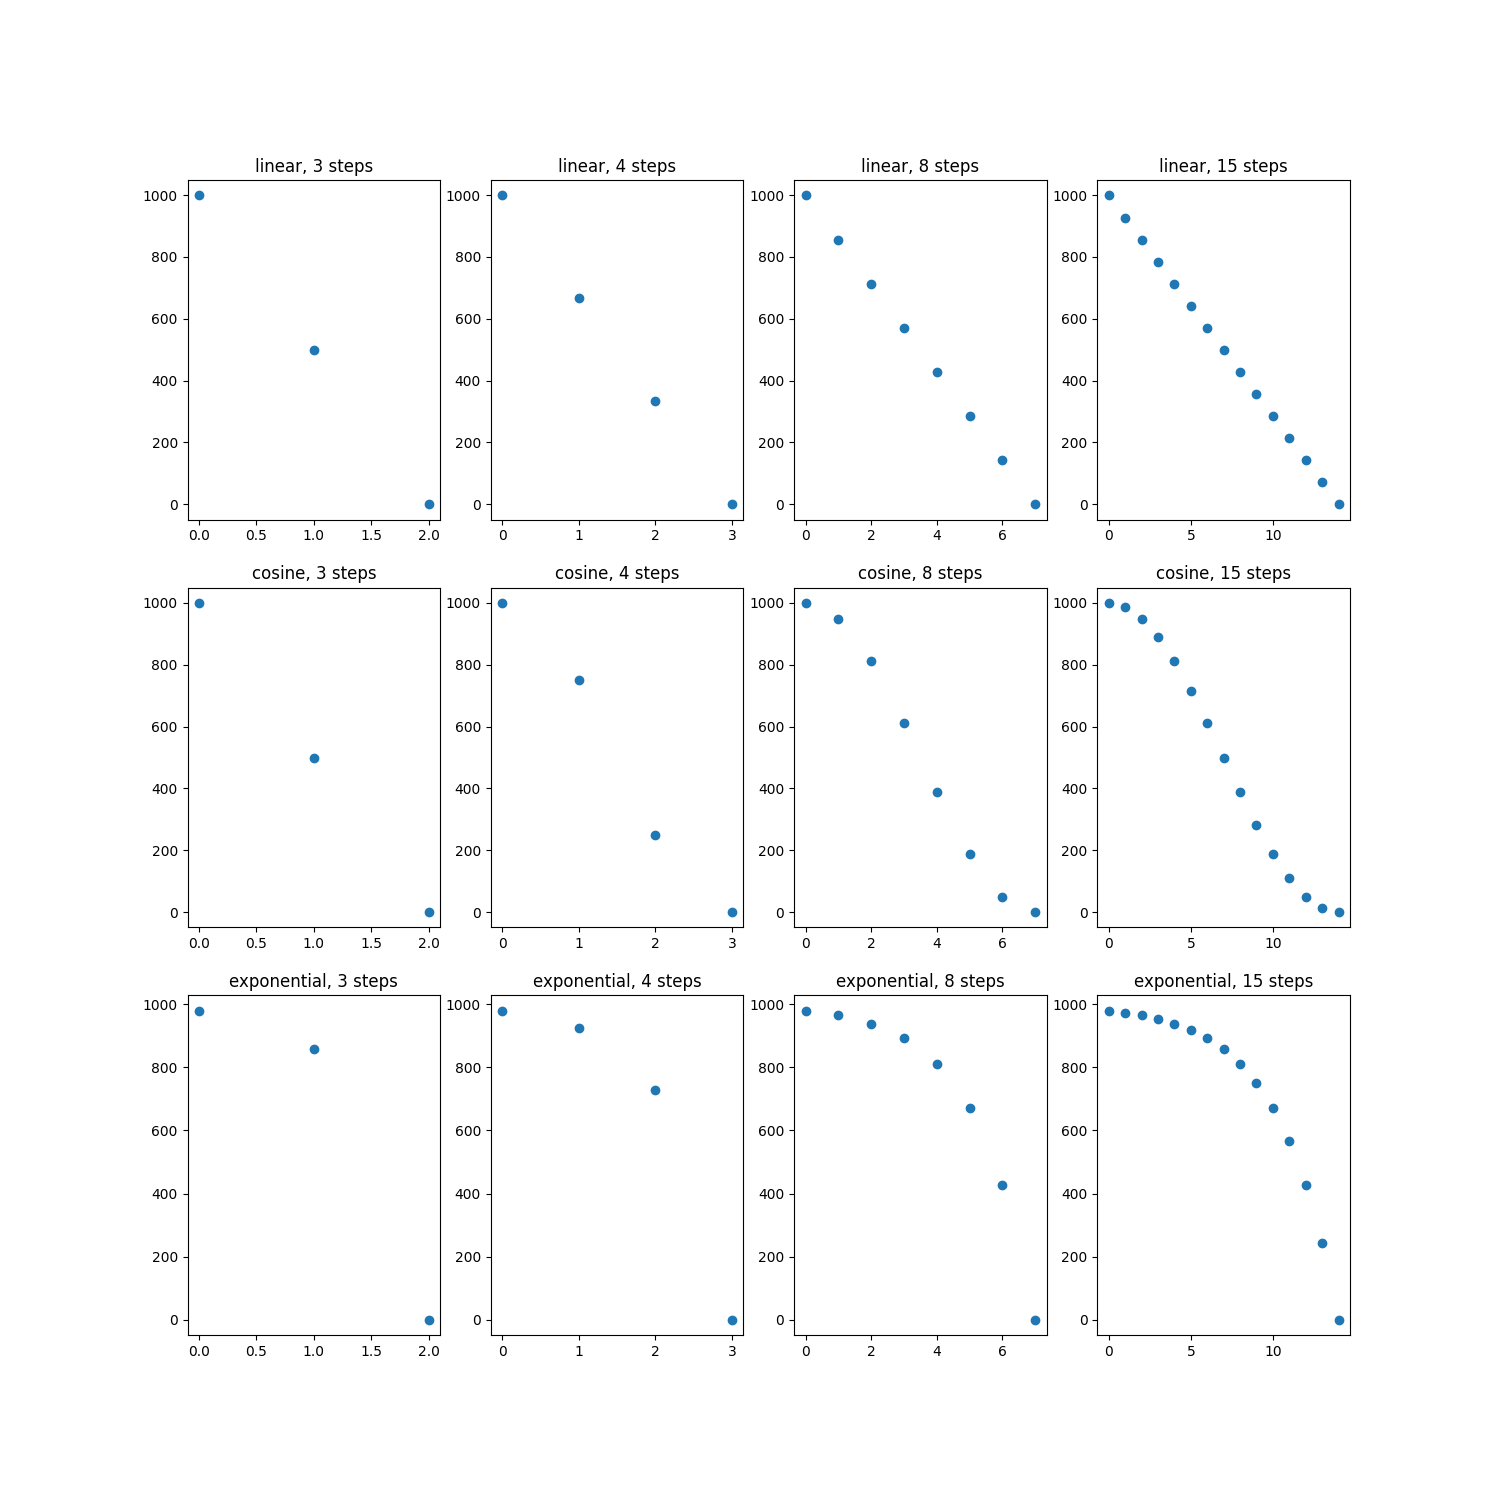
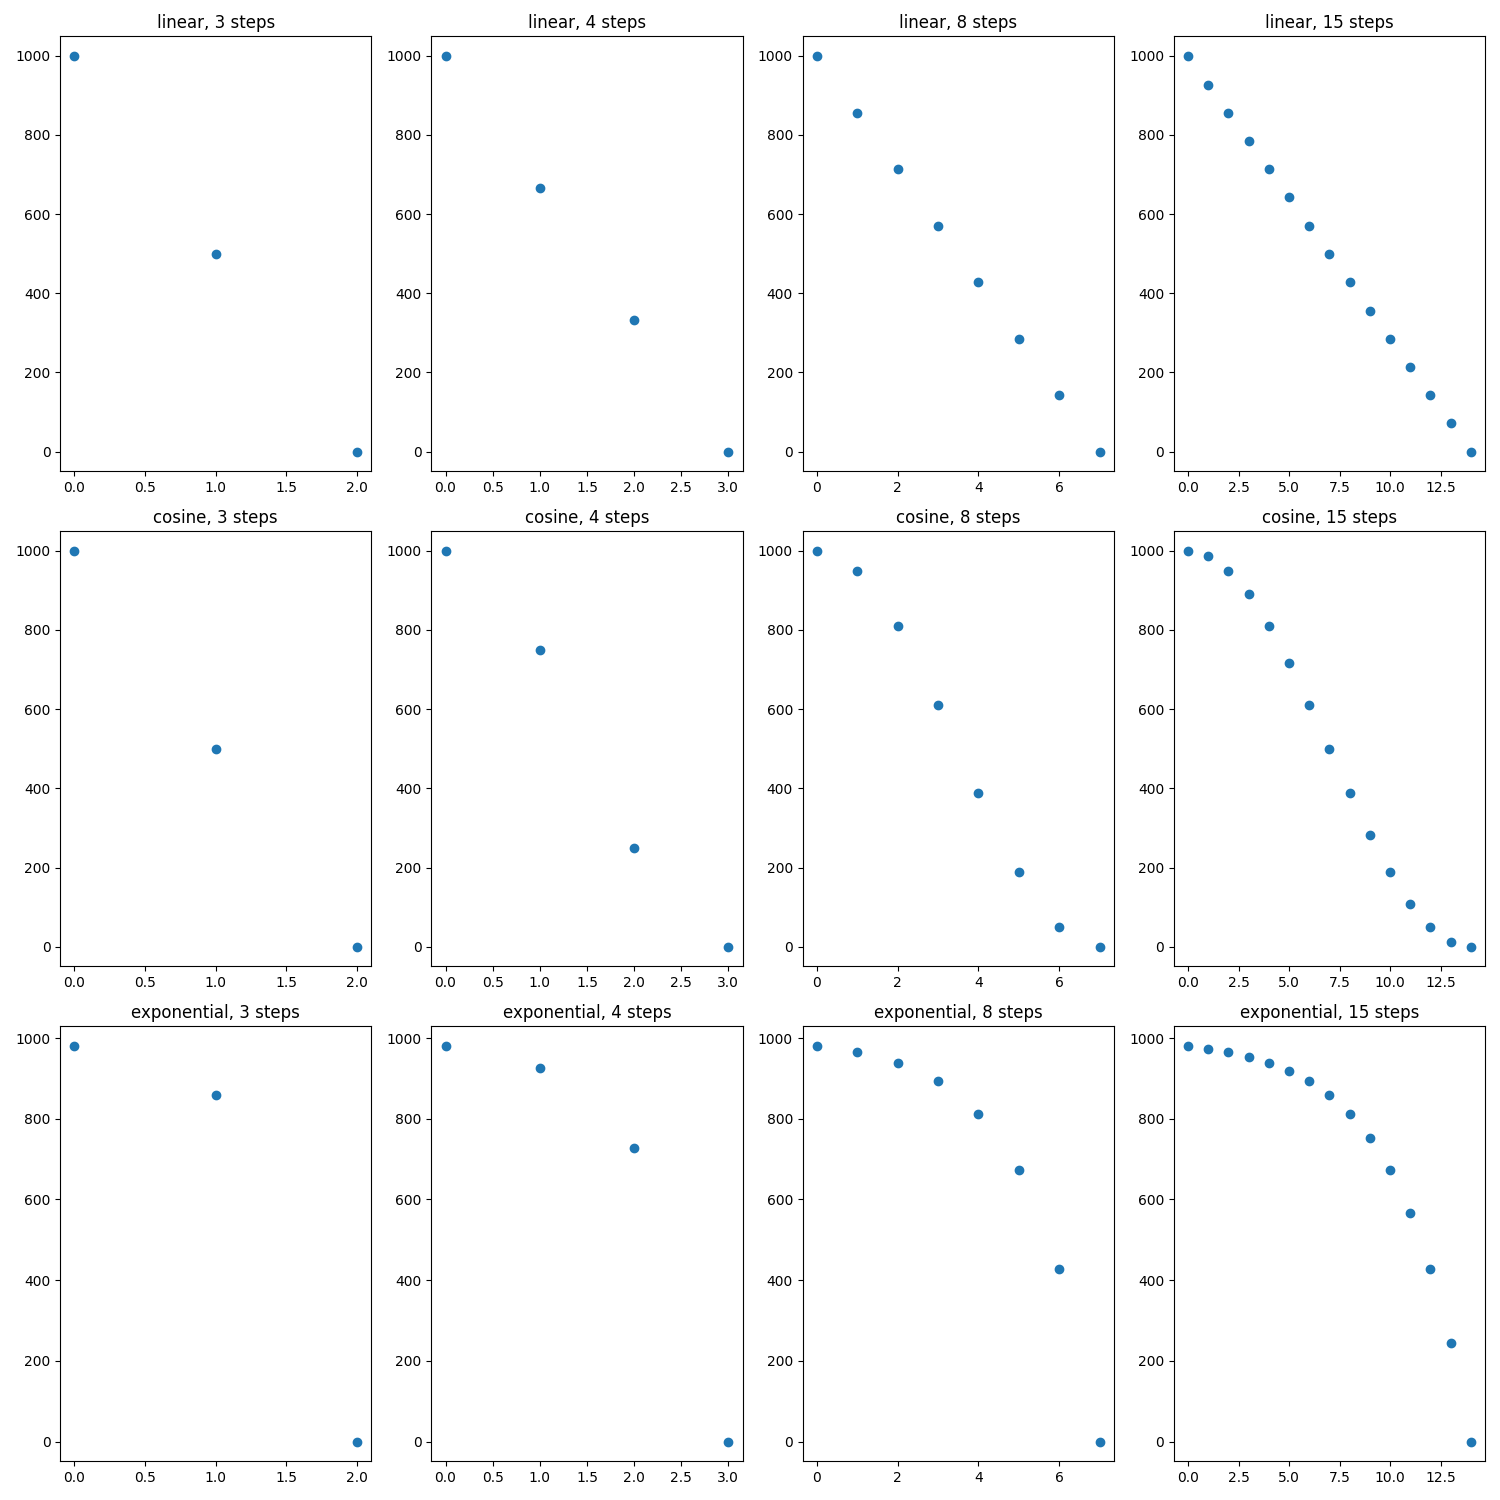
Add output analysis

diff --git a/plot_output.py b/plot_output.py
@@ -1,0 +1,54 @@
+import os
+import re
+from PIL import Image
+import matplotlib.pyplot as plt
+from pathlib import Path
+
+image_folder = "output/output-431"
+
+images_by_prompt = {}
+for filename in os.listdir(image_folder):
+    if filename.endswith(".png"):
+        match = re.match(r"^(.*?)_(linear|exponential|cosine)_(\d+)\.png$", filename)
+        if match:
+            prompt, scheduler, timesteps = match.groups()
+            timesteps = int(timesteps)
+            if prompt not in images_by_prompt:
+                images_by_prompt[prompt] = []
+            images_by_prompt[prompt].append((scheduler, timesteps, filename))
+
+output_grid_folder = "output_demos"
+Path(output_grid_folder).mkdir(parents=True, exist_ok=True)
+
+for prompt, images in images_by_prompt.items():
+    schedulers = ["linear", "exponential", "cosine"]
+    timesteps = sorted(set(img[1] for img in images))
+    grid = {scheduler: {ts: None for ts in timesteps} for scheduler in schedulers}
+    
+    for scheduler, ts, filename in images:
+        grid[scheduler][ts] = Image.open(os.path.join(image_folder, filename))
+
+    fig, axes = plt.subplots(len(schedulers), len(timesteps), figsize=(15, 10))
+
+    for i, scheduler in enumerate(schedulers):
+        for j, ts in enumerate(timesteps):
+            ax = axes[i, j]
+            if grid[scheduler][ts]:
+                ax.imshow(grid[scheduler][ts])
+            ax.spines["top"].set_visible(False)
+            ax.spines["right"].set_visible(False)
+            ax.spines["left"].set_visible(False)
+            ax.spines["bottom"].set_visible(False)
+            ax.set_xticks([])
+            ax.set_yticks([])
+            if i == 0:
+                ax.set_xlabel(f"{ts}", fontsize=10)
+                ax.xaxis.set_label_position("top")
+            if j == 0:
+                ax.set_ylabel(f"{scheduler}", fontsize=10)
+                ax.yaxis.set_label_position("left")
+
+    plt.tight_layout()
+    grid_output_path = os.path.join(output_grid_folder, f"{prompt}.png")
+    plt.savefig(grid_output_path)
+    plt.close()

diff --git a/clip_score.py b/clip_score.py
@@ -1,0 +1,41 @@
+import torch
+import clip
+from PIL import Image
+from all_jobs import jobs
+import re
+import pandas as pd
+import argparse
+
+# Work around CUDA memory limits.
+# Run this script with the following command:
+# for dir in output-*; do
+#   if [ -d "$dir" ]; then
+#     suffix=${dir#output-}
+#     python clip_score.py --seed "$suffix"
+#   fi
+# done
+argparser = argparse.ArgumentParser()
+argparser.add_argument("--seed", type=int, required=True)
+args = argparser.parse_args()
+
+# Load CLIP model
+device = "cuda" if torch.cuda.is_available() else "cpu"
+model, preprocess = clip.load("ViT-B/32", device=device)
+similarities = []
+for (prompt, scheduler, num_inference_steps) in jobs:
+    text_prompts = [prompt]
+    prompt_abstract = re.sub("[^0-9a-zA-Z]+", "_", "_".join(prompt.split(" ")[:4]))
+    images = [Image.open(f"output-{args.seed}/{prompt_abstract}_{scheduler}_{num_inference_steps}.png")]
+
+    image_features = torch.stack([preprocess(img).to(device) for img in images])
+    image_features = model.encode_image(image_features)
+
+    text_features = model.encode_text(clip.tokenize(text_prompts).to(device))
+
+    image_features /= image_features.norm(dim=-1, keepdim=True)
+    text_features /= text_features.norm(dim=-1, keepdim=True)
+    similarity = (image_features @ text_features.T).mean().item()
+    similarities.append({ "prompt": prompt, "scheduler": scheduler, "num_inference_steps": num_inference_steps, "similarity": similarity })
+    torch.cuda.empty_cache()
+
+pd.DataFrame(similarities).to_csv(f"output-{args.seed}/similarities.csv", index=False)

diff --git a/all_jobs.py b/all_jobs.py
@@ -1,15 +1,27 @@
 from schedule_variation import generate_image
 import itertools
 
-jobs = itertools.product(
-    [
-        "A photo of llama wearing sunglasses standing on the deck of a spaceship with the Earth in the background.",
-        "a shiba inu wearing a beret and black turtleneck",
-        "a young girl playing piano",
-        "A train ride in the monsoon rain in Kerala. With a Koala bear wearing a hat looking out of the window. There is a lot of coconut trees out of the window.",
-    ],
+prompts = [
+    "A photo of llama wearing sunglasses standing on the deck of a spaceship with the Earth in the background.",
+    "a shiba inu wearing a beret and black turtleneck",
+    "a young girl playing piano",
+    "A train ride in the monsoon rain in Kerala. With a Koala bear wearing a hat looking out of the window. There is a lot of coconut trees out of the window.",
+]
+
+jobs = list(itertools.product(
+    prompts,
     ["linear", "exponential", "cosine"],
     [3, 4, 8, 15],
-)
+))
 
-generate_image(jobs, 431)
+if __name__ == "__main__":
+    generate_image(jobs, 42)
+    generate_image(jobs, 69)
+    generate_image(jobs, 223)
+    generate_image(jobs, 241)
+    generate_image(jobs, 242)
+    generate_image(jobs, 323)
+    generate_image(jobs, 365)
+    generate_image(jobs, 420)
+    generate_image(jobs, 431)
+    generate_image(jobs, 432)

diff --git a/schedule_variation.py b/schedule_variation.py
@@ -5,6 +5,8 @@ from safetensors.torch import load_file
 import argparse
 from create_timesteps import create_timesteps
 import re
+import time
+import pandas as pd
 
 device = "cuda"
 
@@ -25,13 +27,18 @@ def set_seed(seed):
     torch.backends.cudnn.benchmark = False
 
 def generate_image(jobs, seed=None):
+    all_times = []
     for (prompt, scheduler, num_inference_steps) in jobs:
         if seed is not None:
             set_seed(seed)
+        start = time.perf_counter()
         timesteps = create_timesteps(scheduler, num_inference_steps)
         image = pipe(prompt=prompt, num_inference_steps=num_inference_steps, guidance_scale=0, timesteps=timesteps).images[0]
+        end = time.perf_counter()
+        all_times.append({ "prompt": prompt, "scheduler": scheduler, "num_inference_steps": num_inference_steps, "time": end - start })
         prompt_abstract = re.sub("[^0-9a-zA-Z]+", "_", "_".join(prompt.split(" ")[:4]))
-        image.save(f"output/{prompt_abstract}_{scheduler}_{num_inference_steps}.png")
+        image.save(f"output-{seed}/{prompt_abstract}_{scheduler}_{num_inference_steps}.png")
+    pd.DataFrame(all_times).to_csv(f"output-{seed}/times.csv", index=False)
 
 if __name__ == "__main__":
     argparser = argparse.ArgumentParser()

diff --git a/plot_times.py b/plot_times.py
@@ -1,0 +1,19 @@
+import pandas as pd
+import matplotlib.pyplot as plt
+import os
+
+times = [f"{x}/times.csv" for x in os.listdir("output")]
+times = pd.concat([pd.read_csv(f"output/{x}") for x in times])
+times = times.drop(columns=["prompt"])
+times = times.groupby(["scheduler", "num_inference_steps"]).mean().reset_index()
+
+# Plot time wrt to inference steps, one curve per scheduler.
+fig, ax = plt.subplots()
+for scheduler in times["scheduler"].unique():
+    ax.plot(times[times["scheduler"] == scheduler]["num_inference_steps"], times[times["scheduler"] == scheduler]["time"], label=scheduler)
+print(times[times["scheduler"] == "linear"])
+ax.set_xlabel("Number of inference steps")
+ax.set_ylabel("Time (s)")
+ax.legend()
+fig.tight_layout()
+fig.savefig("time.png")

diff --git a/plot_similarities.py b/plot_similarities.py
@@ -1,0 +1,17 @@
+import matplotlib.pyplot as plt
+import pandas as pd
+import os
+
+similarities = [f"{x}/similarities.csv" for x in os.listdir("output")]
+similarities = pd.concat([pd.read_csv(f"output/{x}") for x in similarities])
+similarities = similarities.drop(columns=["prompt"])
+similarities = similarities.groupby(["scheduler", "num_inference_steps"]).mean().reset_index()
+
+fig, ax = plt.subplots()
+for scheduler in similarities["scheduler"].unique():
+    ax.plot(similarities[similarities["scheduler"] == scheduler]["num_inference_steps"], similarities[similarities["scheduler"] == scheduler]["similarity"], label=scheduler)
+ax.set_xlabel("Number of inference steps")
+ax.set_ylabel("CLIP score")
+ax.legend()
+fig.tight_layout()
+fig.savefig("similarity.png")

diff --git a/plot_schedule.py b/plot_schedule.py
@@ -24,4 +24,5 @@ for schedule in schedules:
         ax.scatter(range(num_inference_step), step_range)
         ax.set_title(f"{schedule}, {num_inference_step} steps")
 
+fig.tight_layout()
 fig.savefig("schedule.png")
